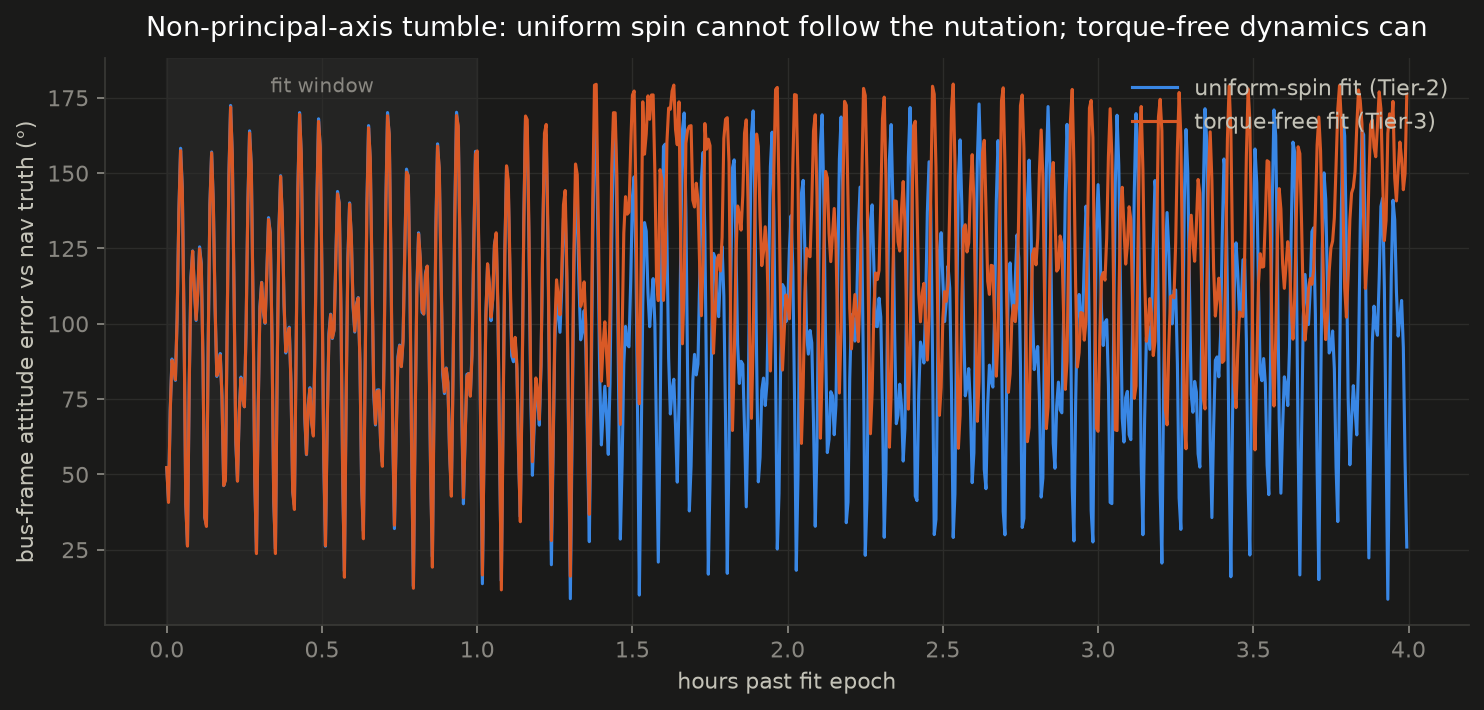
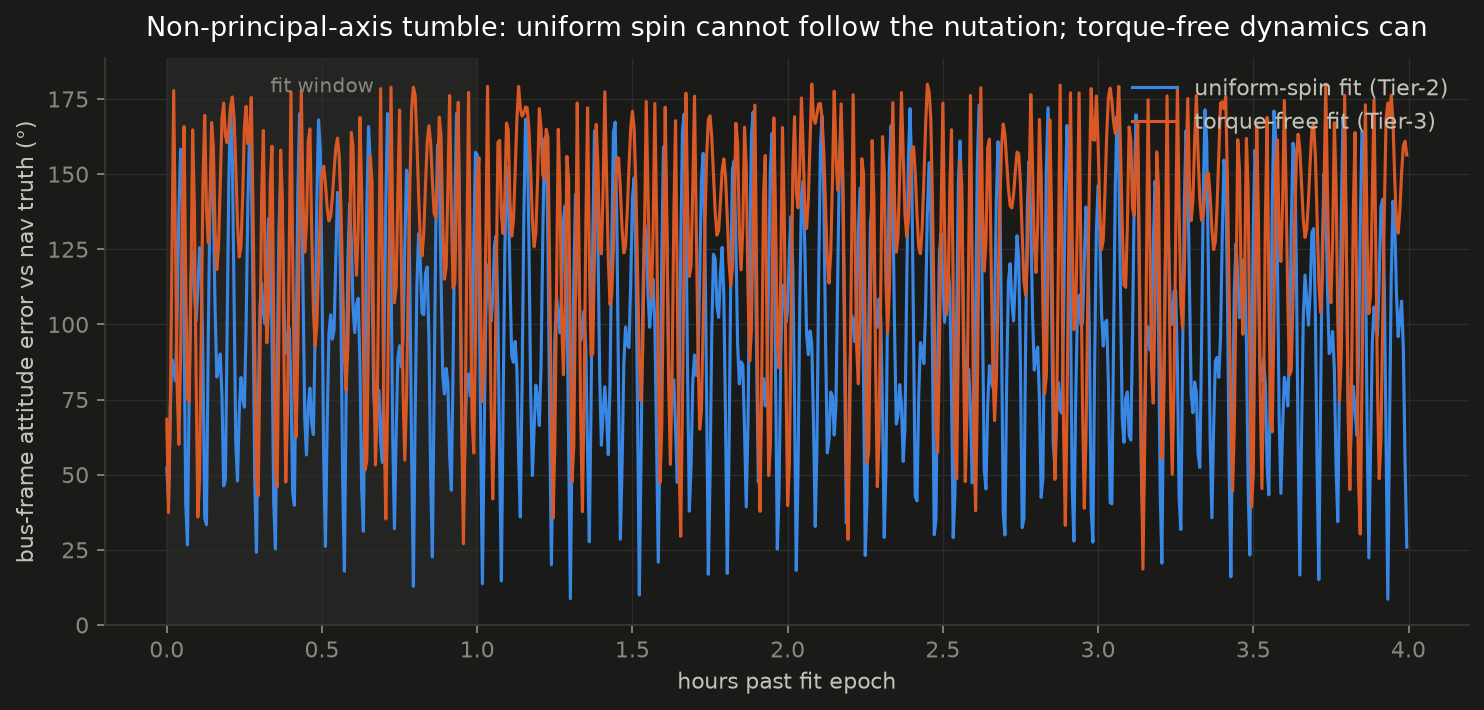
Window-laddered torque-free fitting
Coherence over N rotations narrows the rate basin ~1/N, so no start bank
survives a 3600 s window directly; fit on ~3 rotations first, then extend
through 12 rotations to the full window, re-refining survivors at each
stage — the same principle as the coherent period ladder. Truth scores
1.04 through the fit path, confirming search (not plumbing) was the
blocker.

Claude-Session: https://claude.ai/code/session_018HUFR9zZ7uRcLJ1h3DAMGJ

Changed region(s): [[0.093, 0.1239, 0.9609, 0.8056], [0.031, 0.3408, 0.062, 0.3718], [0.031, 0.1239, 0.062, 0.1549]]

diff --git a/src/photometry/inversion/torquefree.py b/src/photometry/inversion/torquefree.py
@@ -133,17 +133,26 @@ def fit_torque_free(
     rng = np.random.default_rng(seed)
     if t_ref is None:
         t_ref = float(obs.t_s.min())
-    in_win = (obs.t_s >= t_ref) & (obs.t_s <= t_ref + window_s)
-    win = obs.subset(np.nonzero(in_win)[0])
-    if len(win) > max_obs:
-        win = win.subset(np.sort(rng.choice(len(win), max_obs, replace=False)))
-    prep = prepare_meas(win)
-    t_rel = win.t_s - t_ref
 
     r_seed = seed_spin.body_to_eci_matrix(t_ref)
-    cost_seed = huber_mag_cost(shape, seed_spin, False, prep, offset_sigma)
     if seed_periods is None:
         seed_periods = [seed_spin.period_s]
+
+    # window ladder: coherence over N rotations makes the omega basin
+    # ~1/N of the rate — start where basins are wide (~2-3 rotations),
+    # extend and re-refine. Same principle as the period ladder.
+    p_min = min(seed_periods)
+    windows = sorted({min(window_s, w) for w in
+                      (3.0 * p_min, 12.0 * p_min, window_s)})
+    preps, t_rels = [], []
+    for w_s, cap in zip(windows, (400, 600, max_obs)):
+        in_win = (obs.t_s >= t_ref) & (obs.t_s <= t_ref + w_s)
+        win = obs.subset(np.nonzero(in_win)[0])
+        if len(win) > cap:
+            win = win.subset(np.sort(rng.choice(len(win), cap, replace=False)))
+        preps.append(prepare_meas(win))
+        t_rels.append(win.t_s - t_ref)
+    cost_seed = huber_mag_cost(shape, seed_spin, False, preps[-1], offset_sigma)
 
     evals = [0]
 
@@ -155,15 +164,19 @@ def fit_torque_free(
         inertia = np.array([1.0, np.exp(li2), np.exp(li3)])
         return inertia, np.array([wx, wy, wz]), dr @ r_seed
 
-    def objective(x):
-        evals[0] += 1
-        inertia, w0, r0 = unpack(x)
-        try:
-            r_rows = solve_attitude_at(inertia, w0, r0, t_rel)
-        except Exception:
-            return 1e9
-        return huber_mag_cost(shape, _RowAttitude(r_rows), False, prep,
-                              offset_sigma)
+    def make_objective(stage: int):
+        prep, t_rel = preps[stage], t_rels[stage]
+
+        def objective(x):
+            evals[0] += 1
+            inertia, w0, r0 = unpack(x)
+            try:
+                r_rows = solve_attitude_at(inertia, w0, r0, t_rel)
+            except Exception:
+                return 1e9
+            return huber_mag_cost(shape, _RowAttitude(r_rows), False, prep,
+                                  offset_sigma)
+        return objective
 
     # start bank: |omega| x body axis (tilted 15 deg) x initial attitude
     axes = np.eye(3)
@@ -178,27 +191,41 @@ def fit_torque_free(
             for rv in r0_variants:
                 starts.append(np.array([np.log(1.8), np.log(2.4), *w0, *rv]))
 
-    # phase A: inertia frozen
+    # stage 0 phase A on the shortest window, inertia frozen
+    obj0 = make_objective(0)
     scored = []
     for x0 in starts:
         frozen = x0[:2].copy()
 
         def obj_a(x6):
-            return objective(np.concatenate([frozen, x6]))
+            return obj0(np.concatenate([frozen, x6]))
 
         res = minimize(obj_a, x0[2:], method="Nelder-Mead",
                        options=dict(maxiter=400, xatol=1e-5, fatol=1e-7))
         scored.append((res.fun, np.concatenate([frozen, res.x])))
     scored.sort(key=lambda s: s[0])
 
-    # phase B: full 8-parameter refinement of the best starts
-    best = None
-    for _, x0 in scored[:n_finalists]:
-        res = minimize(objective, x0, method="Nelder-Mead",
-                       options=dict(maxiter=1200, xatol=1e-6, fatol=1e-8))
-        if best is None or res.fun < best[0]:
-            best = (res.fun, res.x)
+    # stage 0 phase B: full 8 params, short window
+    stage_pool = []
+    for _, x0 in scored[: 2 * n_finalists]:
+        res = minimize(obj0, x0, method="Nelder-Mead",
+                       options=dict(maxiter=600, xatol=1e-6, fatol=1e-8))
+        stage_pool.append((res.fun, res.x))
+    stage_pool.sort(key=lambda s: s[0])
 
+    # extend through the window ladder
+    for stage in range(1, len(windows)):
+        obj_s = make_objective(stage)
+        n_keep = max(n_finalists - stage, 1)
+        nxt = []
+        for _, x0 in stage_pool[:n_keep + 1]:
+            res = minimize(obj_s, x0, method="Nelder-Mead",
+                           options=dict(maxiter=800, xatol=1e-6, fatol=1e-8))
+            nxt.append((res.fun, res.x))
+        nxt.sort(key=lambda s: s[0])
+        stage_pool = nxt
+
+    best = stage_pool[0]
     inertia, w0, r0 = unpack(best[1])
     return TorqueFreeFit(
         inertia=tuple(float(v) for v in inertia),
